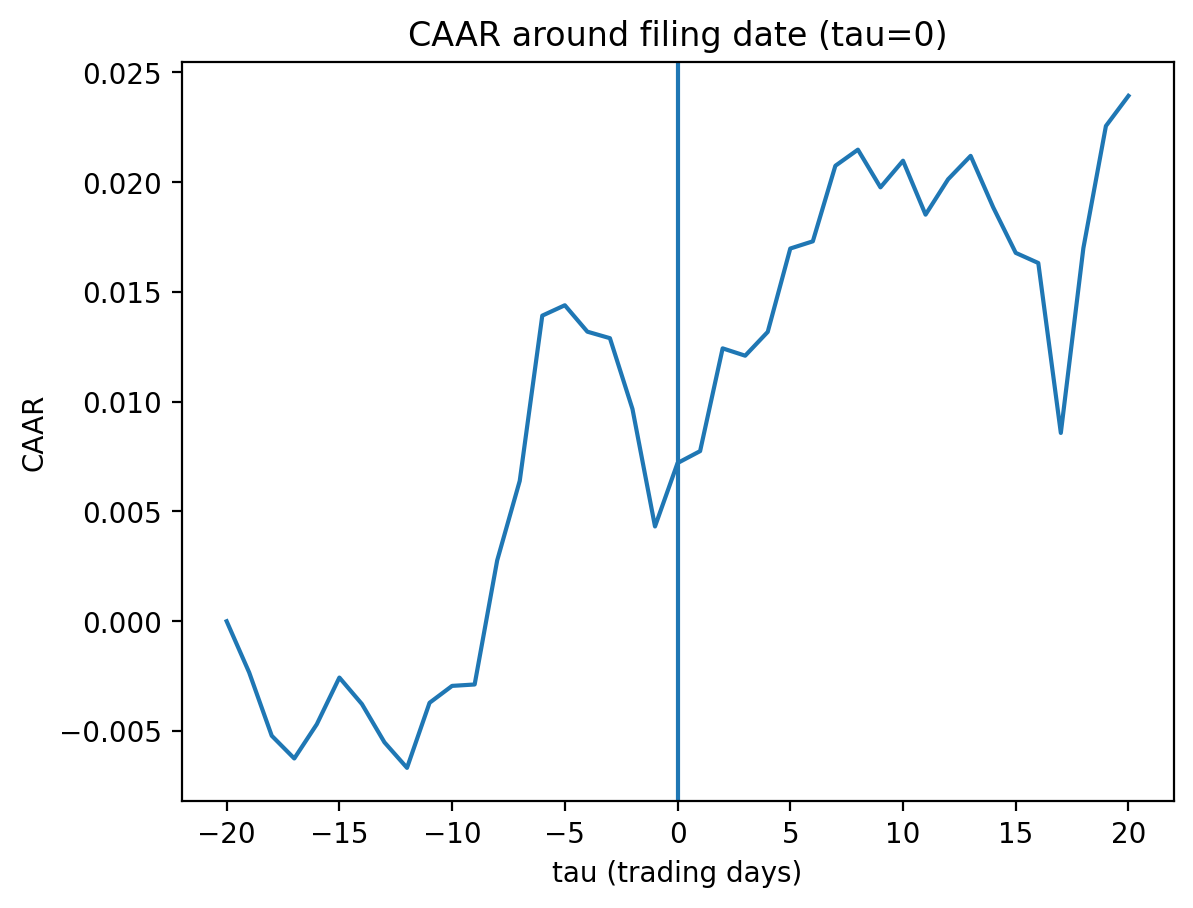
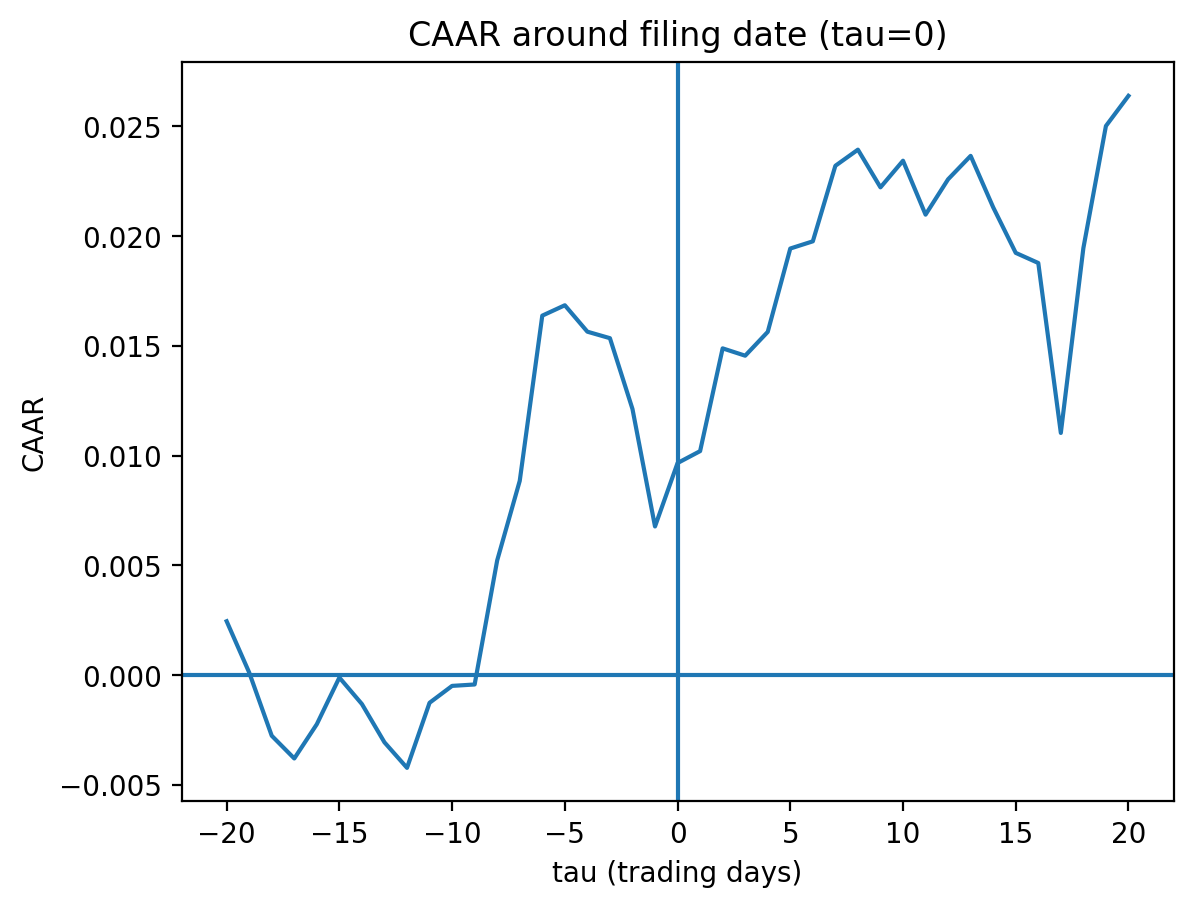
Embed plots in README; switch AAR/CAAR to Change; cleanup

diff --git a/run_summary.py b/run_summary.py
@@ -1,18 +1,18 @@
 import os
 import pandas as pd
 
-def car_for_window(g: pd.DataFrame, a: int, b: int) -> float:
-    """
-    CAR(a,b) = sum_{tau=a..b} ret_close
-    - tau=0의 ret_close는 NaN(첫 행)이라 합에서 자동 제외되지만,
-      보통 이벤트스터디에서는 tau=0 수익률도 포함시키고 싶으면
-      Close 기반 수익률을 다시 정의해야 함.
-    여기서는 'ret_close' 정의를 그대로 사용하고,
-    tau=0의 NaN은 0으로 처리해서 포함되게 만든다.
-    """
-    w = g[(g["tau"] >= a) & (g["tau"] <= b)].copy()
-    rc = w["ret_close"].fillna(0.0)
-    return float(rc.sum())
+def pick_return_column(df: pd.DataFrame) -> str:
+    # FinanceDataReader가 주는 Change(일별 수익률)가 있으면 그걸 쓰는 게 가장 깔끔
+    if "Change" in df.columns:
+        return "Change"
+    # fallback
+    if "ret_close" in df.columns:
+        return "ret_close"
+    raise RuntimeError("No return column found. Need either 'Change' or 'ret_close' in event_panel.csv")
+
+def car_for_window(g: pd.DataFrame, ret_col: str, a: int, b: int) -> float:
+    w = g[(g["tau"] >= a) & (g["tau"] <= b)]
+    return float(w[ret_col].dropna().sum())
 
 def main():
     panel_path = "data/processed/event_panel.csv"
@@ -26,23 +26,31 @@ def main():
     )
     df["stock_code"] = df["stock_code"].astype("string").str.zfill(6)
 
+    ret_col = pick_return_column(df)
+    # 이름 통일: AR(Abnormal Return처럼 쓰고 싶으면 시장조정에서 진짜 AR이 됨)
+    df["AR"] = pd.to_numeric(df[ret_col], errors="coerce")
+
     # --- event-level summary ---
-    meta_cols = ["rcept_no","rcept_dt","event_date","event_trade_date","stock_code","corp_code","corp_name","report_nm","pblntf_ty","pblntf_detail_ty"]
+    meta_cols = [
+        "rcept_no","rcept_dt","event_date","event_trade_date",
+        "stock_code","corp_code","corp_name","report_nm",
+        "pblntf_ty","pblntf_detail_ty"
+    ]
     meta_cols = [c for c in meta_cols if c in df.columns]
 
-    # event별로 CAR 계산
     summary_rows = []
     for rcept_no, g in df.groupby("rcept_no", sort=False):
         g = g.sort_values("tau")
         meta = g.iloc[0][meta_cols].to_dict()
 
-        meta["CAR_m1_p1"] = car_for_window(g, -1, 1)
-        meta["CAR_m5_p5"] = car_for_window(g, -5, 5)
-        meta["CAR_m20_p20"] = car_for_window(g, -20, 20)
+        meta["ret_source"] = ret_col
+        meta["CAR_m1_p1"]   = car_for_window(g, "AR", -1, 1)
+        meta["CAR_m5_p5"]   = car_for_window(g, "AR", -5, 5)
+        meta["CAR_m20_p20"] = car_for_window(g, "AR", -20, 20)
 
-        # 이벤트 당일(=tau=0) 정규화 종가 확인용
         if "close_norm" in g.columns:
             meta["close_norm_tau0"] = float(g.loc[g["tau"] == 0, "close_norm"].iloc[0])
+
         summary_rows.append(meta)
 
     event_summary = pd.DataFrame(summary_rows)
@@ -52,16 +60,12 @@ def main():
     event_summary.to_csv(out1, index=False)
     print(f"[done] saved {out1} rows={len(event_summary)} cols={len(event_summary.columns)}")
 
-    # --- AAR/CAAR (전체 평균) ---
-    # tau별 평균 수익률(AAR)과 누적(CAAR)
-    tmp = df.copy()
-    tmp["ret_close_filled"] = tmp["ret_close"].fillna(0.0)
-
+    # --- AAR/CAAR ---
     caar = (
-        tmp.groupby("tau", as_index=False)
-           .agg(AAR=("ret_close_filled","mean"), N=("ret_close_filled","size"))
-           .sort_values("tau")
-           .reset_index(drop=True)
+        df.groupby("tau", as_index=False)
+          .agg(AAR=("AR","mean"), N=("AR","count"))
+          .sort_values("tau")
+          .reset_index(drop=True)
     )
     caar["CAAR"] = caar["AAR"].cumsum()
 
@@ -69,6 +73,7 @@ def main():
     caar.to_csv(out2, index=False)
     print(f"[done] saved {out2} rows={len(caar)} cols={len(caar.columns)}")
 
+    print("[check] return source:", ret_col)
     print("[check] event_summary head:")
     print(event_summary.head(3)[["rcept_no","stock_code","CAR_m1_p1","CAR_m5_p5","CAR_m20_p20"]])
 

diff --git a/run_plot.py b/run_plot.py
@@ -14,6 +14,7 @@ def main():
     plt.figure()
     plt.plot(df["tau"], df["CAAR"])
     plt.axvline(0)
+    plt.axhline(0)
     plt.xlabel("tau (trading days)")
     plt.ylabel("CAAR")
     plt.title("CAAR around filing date (tau=0)")
@@ -26,6 +27,7 @@ def main():
     plt.figure()
     plt.plot(df["tau"], df["AAR"])
     plt.axvline(0)
+    plt.axhline(0)
     plt.xlabel("tau (trading days)")
     plt.ylabel("AAR")
     plt.title("AAR around filing date (tau=0)")

diff --git a/README.md b/README.md
@@ -126,3 +126,7 @@ raw caches / processed CSVs can be excluded depending on storage preference
 ## Plots
 ![AAR](reports/figures/aar.png)
 ![CAAR](reports/figures/caar.png)
+
+## Plots
+![AAR](reports/figures/aar.png)
+![CAAR](reports/figures/caar.png)
